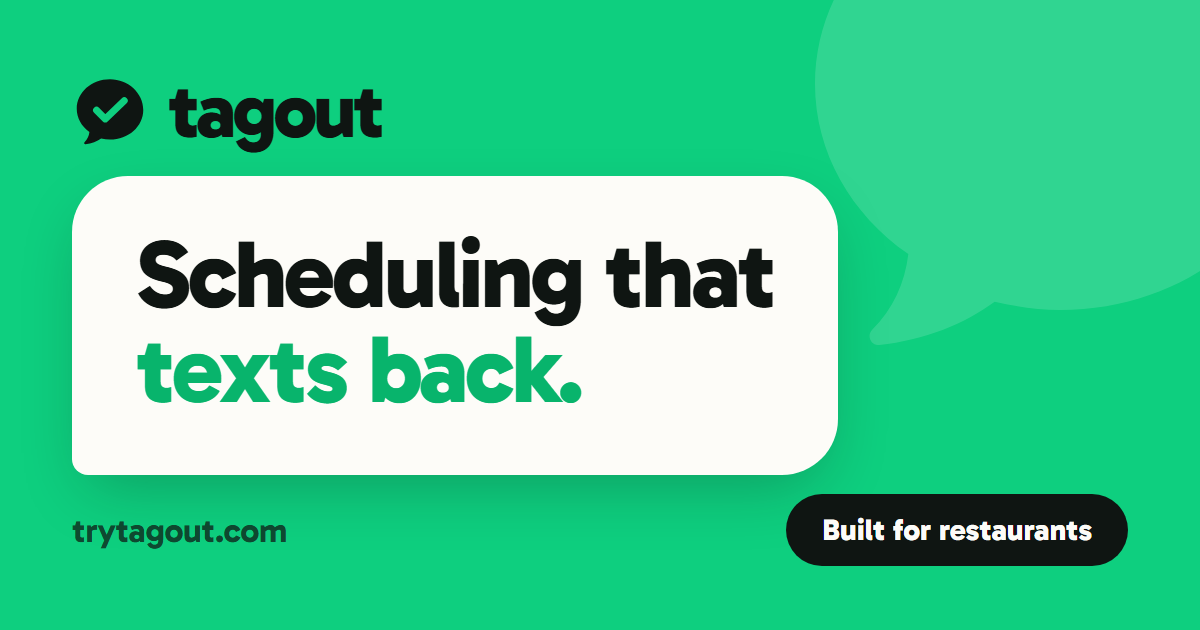
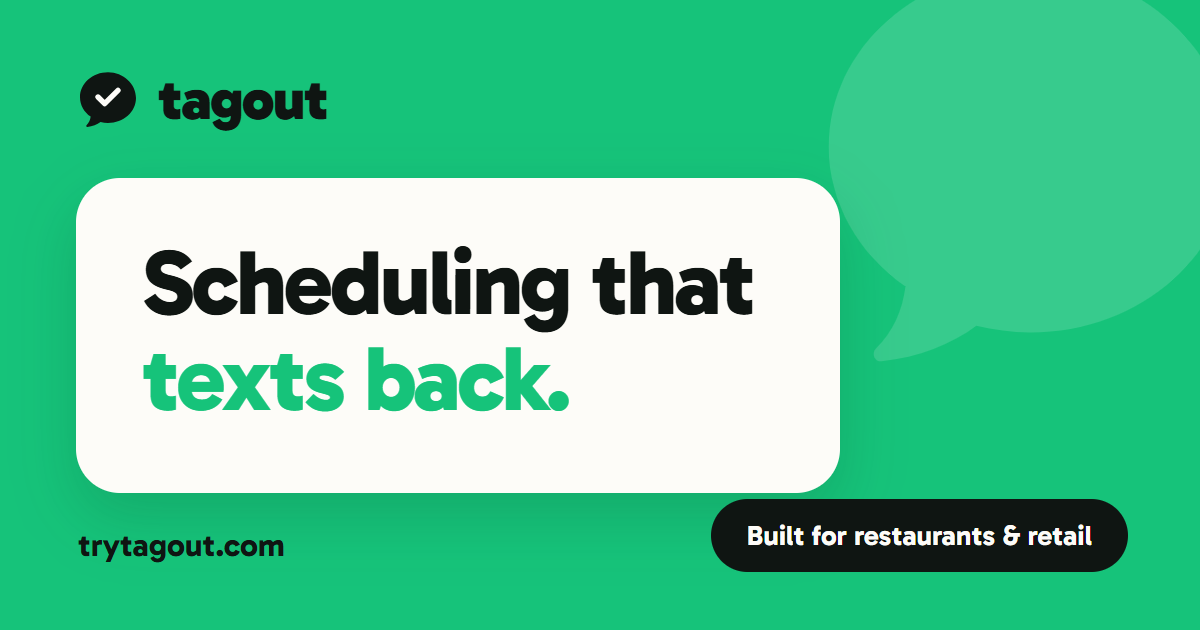
feat: vibrancy tints, phone-moment edge cards, conversation compares + 4 competitors, people-first photos, retail identity
- Section tints replace the washed-out stretch: pillars mint, staff butter,
  edge cases blush; paragraph diet on pricing/vs/pillars intros
- Edge cases restaged as moments from the phone (screen-slice + real bubble)
- Compare surfaces speak the brand: CompareThread (gray mumble vs green
  answer) on home + vs page; "rest of the field" adds 7shifts, When I Work,
  Homebase, Sling with fair-take copy and a trademark disclaimer
- Photo band: three new people-first photos matched to their captions
  (tray through the floor, counter hand-off, laughing waitress)
- Identity includes retail: tagline "Scheduling that texts back",
  description, footer line, regenerated OG image chip

diff --git a/app/page.tsx b/app/page.tsx
@@ -5,6 +5,7 @@ import { PhoneShell, HeroThread } from "@/components/Phone";
 import { BubbleMark } from "@/components/Wordmark";
 import CoverTheater from "@/components/CoverTheater";
 import CTABand from "@/components/CTABand";
+import CompareThread from "@/components/CompareThread";
 import {
   ScheduleMock,
   ApprovalsMock,
@@ -303,7 +304,7 @@ function Theater() {
 
 function ManagerPillars() {
   return (
-    <section id="managers" className="scroll-mt-24 bg-paper py-14 sm:py-20 md:py-28">
+    <section id="managers" className="scroll-mt-24 bg-mint/40 py-14 sm:py-20 md:py-28">
       <div className="mx-auto max-w-7xl px-4 sm:px-6 lg:px-8">
         <Reveal>
           <p className="font-display text-[15px] font-extrabold uppercase tracking-[0.14em] text-violet-mid">
@@ -314,9 +315,8 @@ function ManagerPillars() {
           </h2>
           <p className="mt-5 max-w-2xl text-lg leading-relaxed text-ink-soft">
             The portal is fast. The thread is faster: text &ldquo;Marisa called out
-            tonight&rdquo; and a ranked list comes back, ready to work. Tagout asks the
-            whole eligible list before it ever hands the problem back, and when an ask
-            outgrows a text, the reply comes with a link straight into the&nbsp;portal.
+            tonight&rdquo; and a ranked list comes back, ready to work. When an ask
+            outgrows a text, the reply links straight into the&nbsp;portal.
           </p>
         </Reveal>
 
@@ -412,7 +412,7 @@ function ManagerPillars() {
 
 function StaffSection() {
   return (
-    <section id="staff" className="scroll-mt-24 overflow-hidden bg-cream py-14 sm:py-20 md:py-28">
+    <section id="staff" className="scroll-mt-24 overflow-hidden bg-butter/30 py-14 sm:py-20 md:py-28">
       <div className="mx-auto grid max-w-7xl items-center gap-12 px-4 sm:px-6 lg:grid-cols-[0.95fr_1.05fr] lg:gap-16 lg:px-8">
         <Reveal>
           <div className="relative">
@@ -636,7 +636,7 @@ function EdgeCases() {
     },
   ];
   return (
-    <section className="bg-cream py-14 sm:py-20 md:py-28">
+    <section className="bg-blush/25 py-14 sm:py-20 md:py-28">
       <div className="mx-auto max-w-7xl px-4 sm:px-6 lg:px-8">
         <Reveal>
           <p className="font-display text-[15px] font-extrabold uppercase tracking-[0.14em] text-green-dark">
@@ -653,15 +653,25 @@ function EdgeCases() {
         <Stagger className="no-scrollbar mt-12 flex snap-x snap-proximity overscroll-x-contain gap-4 overflow-x-auto sm:grid sm:grid-cols-2 sm:gap-5 sm:overflow-visible lg:grid-cols-3" gap={0.08}>
           {cases.map((c) => (
             <Item key={c.title} className="min-w-[84%] snap-center sm:min-w-0">
-              <div className="flex h-full flex-col rounded-3xl bg-white p-6 shadow-pop transition-shadow hover:shadow-lift sm:p-7">
-                <span className={`w-fit rounded-lg rounded-bl-[4px] px-3 py-1 text-[11.5px] font-extrabold uppercase tracking-wide ${c.tone}`}>
-                  {c.time}
-                </span>
-                <h3 className="mt-3.5 font-display text-[20px] font-extrabold text-ink">{c.title}</h3>
-                <p className="mt-2 flex-1 text-[14.5px] leading-relaxed text-ink-soft">{c.body}</p>
-                <p className="mt-4 rounded-2xl rounded-bl-md bg-cream px-4 py-3 text-[13.5px] font-semibold leading-snug text-ink">
-                  {c.sms}
-                </p>
+              <div className="flex h-full flex-col overflow-hidden rounded-3xl bg-white shadow-pop transition-shadow hover:shadow-lift">
+                {/* a slice of the phone screen: timestamp + the actual text */}
+                <div className="bg-[#f4f2ec] px-5 pb-5 pt-3.5">
+                  <p className="text-center text-[10.5px] font-bold uppercase tracking-[0.08em] text-ink/35">
+                    {c.time}
+                  </p>
+                  <div className="mt-2.5 flex items-start gap-2">
+                    <div className="mt-0.5 flex h-7 w-7 shrink-0 items-center justify-center rounded-full bg-green">
+                      <BubbleMark size={14} className="text-white" />
+                    </div>
+                    <p className="rounded-[16px] rounded-bl-md bg-white px-3.5 py-2 text-[13.5px] leading-snug text-ink shadow-[0_1px_2px_rgb(15_21_18/0.08)]">
+                      {c.sms.replace(/[\u201c\u201d]/g, "")}
+                    </p>
+                  </div>
+                </div>
+                <div className="flex flex-1 flex-col p-5 sm:px-6">
+                  <h3 className="font-display text-[19px] font-extrabold text-ink">{c.title}</h3>
+                  <p className="mt-1.5 text-[14px] leading-relaxed text-ink-soft">{c.body}</p>
+                </div>
               </div>
             </Item>
           ))}
@@ -689,22 +699,22 @@ function PhotoBand() {
         >
           {[
             {
-              src: "/photos/dining-room.webp",
-              alt: "Server setting tables in a warm dining room before service",
+              src: "/photos/band-floor.webp",
+              alt: "Server carrying a tray of drinks through a busy, warmly lit dining room",
               cap: "Friday, fully staffed",
-              pos: "50% 45%",
+              pos: "50% 50%",
             },
             {
-              src: "/photos/counter-service.webp",
-              alt: "Coffee shop employee working the register",
+              src: "/photos/band-counter.webp",
+              alt: "Smiling barista handing a coffee across the counter to a customer",
               cap: "Counter covered, line moving",
-              pos: "92% 50%",
+              pos: "50% 50%",
             },
             {
-              src: "/photos/server-burgers.webp",
-              alt: "Server delivering plates of burgers and fries on a patio",
+              src: "/photos/band-happy.webp",
+              alt: "Waitress laughing with a guest at a bright, plant-filled café",
               cap: "Nobody working a double they didn't ask for",
-              pos: "62% 45%",
+              pos: "50% 50%",
             },
           ].map((p) => (
             <Item key={p.cap} className="min-w-[78%] snap-center sm:min-w-0">
@@ -838,31 +848,8 @@ function CompareTeaser() {
               </div>
             ))}
           </div>
-          <div className="mt-10 hidden overflow-x-auto rounded-3xl shadow-lift md:block">
-            <table className="w-full border-collapse md:min-w-[640px] overflow-hidden rounded-3xl bg-white text-left">
-              <thead>
-                <tr className="border-b border-ink/8">
-                  <th className="px-6 py-5 text-[13px] font-extrabold uppercase tracking-wide text-ink/40">
-                    What matters
-                  </th>
-                  <th className="px-6 py-5 text-[13px] font-extrabold uppercase tracking-wide text-ink/40">
-                    Legacy schedulers
-                  </th>
-                  <th className="bg-mint/70 px-6 py-5">
-                    <span className="font-display text-[16px] font-extrabold text-green-dark">Tagout</span>
-                  </th>
-                </tr>
-              </thead>
-              <tbody>
-                {rows.map((r) => (
-                  <tr key={r.k} className="border-b border-ink/6 last:border-0">
-                    <td className="px-6 py-4 font-display text-[15px] font-extrabold text-ink">{r.k}</td>
-                    <td className="px-6 py-4 text-[14.5px] font-medium text-ink/50">{r.them}</td>
-                    <td className="bg-mint/40 px-6 py-4 text-[14.5px] font-bold text-green-dark">{r.us}</td>
-                  </tr>
-                ))}
-              </tbody>
-            </table>
+          <div className="mt-10 hidden md:block">
+            <CompareThread rows={rows} />
           </div>
         </Reveal>
       </div>

diff --git a/app/vs-hotschedules/page.tsx b/app/vs-hotschedules/page.tsx
@@ -2,11 +2,12 @@ import type { Metadata } from "next";
 import Link from "next/link";
 import { Reveal, Stagger, Item } from "@/components/Reveal";
 import CTABand from "@/components/CTABand";
+import CompareThread from "@/components/CompareThread";
 
 export const metadata: Metadata = {
-  title: "Tagout vs HotSchedules: the honest comparison",
+  title: "Compare: Tagout vs HotSchedules, 7shifts & more",
   description:
-    "HotSchedules built the category. Tagout rebuilt it around the one channel your staff actually answers: text messages. Here's the side-by-side.",
+    "HotSchedules built the category. Tagout rebuilt it around the one channel your staff actually answers: text messages. The honest side-by-side, plus how Tagout stacks up against 7shifts, When I Work, Homebase, and Sling.",
 };
 
 const rows: { k: string; hs: string; tg: string }[] = [
@@ -36,9 +37,9 @@ export default function VsPage() {
               <span className="text-green-deep">We rebuilt it around a&nbsp;text.</span>
             </h1>
             <p className="mt-6 max-w-2xl text-lg leading-relaxed text-ink-soft md:text-xl">
-              Respect where it&apos;s due: HotSchedules taught the industry that scheduling
-              belongs in software. But it was designed when the answer to everything was
-              “open the app,” and your staff has voted on that with their thumbs.
+              Respect where it&apos;s due: HotSchedules taught the industry that
+              scheduling belongs in software. But it still answers everything with
+              &ldquo;open the app,&rdquo; and your staff has voted on&nbsp;that.
             </p>
           </Reveal>
         </div>
@@ -61,29 +62,11 @@ export default function VsPage() {
                 </div>
               ))}
             </div>
-            <div className="hidden overflow-x-auto rounded-3xl shadow-lift md:block">
-              <table className="w-full border-collapse md:min-w-[680px] bg-white text-left">
-                <thead>
-                  <tr className="border-b border-ink/8">
-                    <th className="w-[30%] px-6 py-5 text-[13px] font-extrabold uppercase tracking-wide text-ink/40" />
-                    <th className="w-[35%] px-6 py-5 font-display text-[16px] font-extrabold text-ink/55">
-                      HotSchedules
-                    </th>
-                    <th className="w-[35%] bg-mint/70 px-6 py-5 font-display text-[16px] font-extrabold text-green-dark">
-                      Tagout
-                    </th>
-                  </tr>
-                </thead>
-                <tbody>
-                  {rows.map((r) => (
-                    <tr key={r.k} className="border-b border-ink/6 last:border-0">
-                      <td className="px-6 py-4 font-display text-[15px] font-extrabold text-ink">{r.k}</td>
-                      <td className="px-6 py-4 text-[14.5px] font-medium text-ink/50">{r.hs}</td>
-                      <td className="bg-mint/40 px-6 py-4 text-[14.5px] font-bold text-green-dark">{r.tg}</td>
-                    </tr>
-                  ))}
-                </tbody>
-              </table>
+            <div className="hidden md:block">
+              <CompareThread
+                themLabel="HotSchedules"
+                rows={rows.map((r) => ({ k: r.k, them: r.hs, us: r.tg }))}
+              />
             </div>
           </Reveal>
           <p className="mt-4 text-center text-[13px] font-medium text-ink/40">
@@ -164,6 +147,73 @@ export default function VsPage() {
               />
             </div>
           </Reveal>
+        </div>
+      </section>
+
+      {/* the rest of the field */}
+      <section className="bg-cream py-16 md:py-24">
+        <div className="mx-auto max-w-7xl px-4 sm:px-6 lg:px-8">
+          <Reveal>
+            <p className="font-display text-[15px] font-extrabold uppercase tracking-[0.14em] text-green-dark">
+              The rest of the field
+            </p>
+            <h2 className="mt-4 max-w-3xl font-display text-4xl font-extrabold leading-[1.02] tracking-tight text-ink sm:text-5xl">
+              Good products. Different&nbsp;job.
+            </h2>
+            <p className="mt-5 max-w-2xl text-lg leading-relaxed text-ink-soft">
+              Respect to all of them: they schedule. Tagout schedules and then goes
+              and gets the shift covered. That difference is the whole&nbsp;company.
+            </p>
+          </Reveal>
+          <Stagger
+            className="no-scrollbar mt-12 flex snap-x snap-proximity overscroll-x-contain gap-4 overflow-x-auto sm:grid sm:grid-cols-2 sm:gap-5 sm:overflow-visible"
+            gap={0.08}
+          >
+            {[
+              {
+                name: "7shifts",
+                what: "The restaurant favorite for schedules and team chat",
+                fair: "Genuinely strong scheduling, and staff like the chat.",
+                us: "A dropped shift gets posted for staff to claim. Tagout goes and gets the yes: ranked asks by text, confirmed, board updated.",
+              },
+              {
+                name: "When I Work",
+                what: "Broad small-business scheduling with easy swaps",
+                fair: "Clean scheduling and simple swaps across many industries.",
+                us: "Swaps still start with someone opening an app. With Tagout the whole exchange happens in the thread your team already answers.",
+              },
+              {
+                name: "Homebase",
+                what: "Scheduling, time clocks, and payroll for small teams",
+                fair: "A generous toolbox for small shops, clocks and payroll included.",
+                us: "When someone calls out, the manager is still the engine. Tagout is the engine: it works the list and hands you a confirmed name.",
+              },
+              {
+                name: "Sling by Toast",
+                what: "Scheduling that lives inside the Toast ecosystem",
+                fair: "Convenient if you run Toast: schedules sit next to the POS.",
+                us: "Open shifts go to a feed and wait. Tagout doesn't wait: it texts the right people, in order, until Friday is whole.",
+              },
+            ].map((c) => (
+              <Item key={c.name} className="min-w-[86%] snap-center sm:min-w-0">
+                <div className="flex h-full flex-col rounded-3xl bg-white p-6 shadow-pop sm:p-7">
+                  <h3 className="font-display text-[20px] font-extrabold text-ink">{c.name}</h3>
+                  <p className="mt-0.5 text-[13px] font-semibold text-ink/45">{c.what}</p>
+                  <p className="mt-4 w-fit max-w-[92%] rounded-[16px] rounded-bl-md bg-ink/[0.05] px-4 py-2.5 text-[14px] font-medium leading-snug text-ink/55">
+                    {c.fair}
+                  </p>
+                  <p className="mt-2.5 w-fit max-w-[92%] self-end rounded-[16px] rounded-br-md bg-green px-4 py-2.5 text-[14px] font-bold leading-snug text-white">
+                    {c.us}
+                  </p>
+                </div>
+              </Item>
+            ))}
+          </Stagger>
+          <p className="mt-6 max-w-3xl text-[12.5px] leading-relaxed text-ink/40">
+            Category-level comparisons based on public information as of August 2026;
+            features vary by plan and tier. All product names and trademarks are the
+            property of their respective owners.
+          </p>
         </div>
       </section>
 

diff --git a/components/CompareThread.tsx b/components/CompareThread.tsx
@@ -1,0 +1,45 @@
+import type { ReactNode } from "react";
+
+export type CompareRow = { k: string; them: ReactNode; us: ReactNode };
+
+/**
+ * The comparison, staged as a conversation instead of a table: the old way
+ * mumbles in a gray incoming bubble, Tagout answers in a green outgoing one.
+ * Same bubble grammar as the phones, so the chart speaks the brand.
+ */
+export default function CompareThread({
+  rows,
+  themLabel = "Legacy schedulers",
+}: {
+  rows: CompareRow[];
+  themLabel?: string;
+}) {
+  return (
+    <div className="rounded-[28px] bg-white p-3 shadow-lift sm:p-4">
+      {/* column captions */}
+      <div className="grid grid-cols-[150px_1fr_1fr] items-center gap-6 px-4 pb-2 pt-3 lg:grid-cols-[190px_1fr_1fr]">
+        <span />
+        <span className="text-[12px] font-extrabold uppercase tracking-wide text-ink/35">
+          {themLabel}
+        </span>
+        <span className="justify-self-end text-[12px] font-extrabold uppercase tracking-wide text-green-dark">
+          With Tagout
+        </span>
+      </div>
+      {rows.map((r) => (
+        <div
+          key={r.k}
+          className="grid grid-cols-[150px_1fr_1fr] items-center gap-6 border-t border-ink/6 px-4 py-4 lg:grid-cols-[190px_1fr_1fr]"
+        >
+          <p className="font-display text-[15px] font-extrabold leading-snug text-ink">{r.k}</p>
+          <p className="w-fit max-w-full rounded-[18px] rounded-bl-md bg-ink/[0.05] px-4 py-2.5 text-[14.5px] font-medium leading-snug text-ink/45">
+            {r.them}
+          </p>
+          <p className="w-fit max-w-full justify-self-end rounded-[18px] rounded-br-md bg-green px-4 py-2.5 text-right text-[14.5px] font-bold leading-snug text-white shadow-[0_2px_8px_rgb(14_207_127/0.25)]">
+            {r.us}
+          </p>
+        </div>
+      ))}
+    </div>
+  );
+}

diff --git a/app/pricing/page.tsx b/app/pricing/page.tsx
@@ -51,10 +51,9 @@ export default function PricingPage() {
               $249 covers <span className="text-green-deep">the&nbsp;house.</span>
             </h1>
             <p className="mx-auto mt-6 max-w-2xl text-lg leading-relaxed text-ink-soft md:text-xl">
-              That&apos;s not a platform fee, it&apos;s your first 25 seats, about
-              $10 apiece with Tagout&apos;s AI, both portals, and unlimited texting
-              built in. A section adds 15 more for $99 and pulls the average under
-              $8. The bill moves when the house grows, never when someone&nbsp;quits.
+              Your first 25 seats, not a platform fee: Tagout&apos;s AI and both
+              portals built in. Sections add 15 more for $99, and the bill only
+              moves when the house&nbsp;grows.
             </p>
             <p className="mx-auto mt-5 inline-flex items-center gap-2 rounded-2xl rounded-bl-[6px] bg-mint px-4 py-2.5 text-[13.5px] font-extrabold text-green-dark sm:px-5 sm:text-[14.5px]">
               <span className="h-2 w-2 shrink-0 rounded-full bg-green" />

diff --git a/lib/site.ts b/lib/site.ts
@@ -8,9 +8,9 @@ export const site = {
   wordmark: "tagout",
   domain: "trytagout.com",
   url: "https://trytagout.com",
-  tagline: "Restaurant scheduling that texts back",
+  tagline: "Scheduling that texts back",
   description:
-    "Tagout builds your schedule, then its AI fills every gap over text message, finding who's free, who's under overtime, and who actually says yes. Managers approve. Your team just replies.",
+    "Tagout builds your schedule, then its AI fills every gap over text message, finding who's free, who's under overtime, and who actually says yes. Built for restaurants first, and for retail and every shift-run floor.",
   email: "hello@trytagout.com",
   aiName: "Tagout",
 

diff --git a/components/Footer.tsx b/components/Footer.tsx
@@ -80,7 +80,7 @@ export default function Footer() {
             © {new Date().getFullYear()} {site.legal.company} All rights reserved.
           </p>
           <p className="text-sm text-paper/45">
-            {site.domain} · Made for restaurants, not head offices.
+            {site.domain} · Made for restaurants and retail, not head offices.
           </p>
         </div>
       </div>
